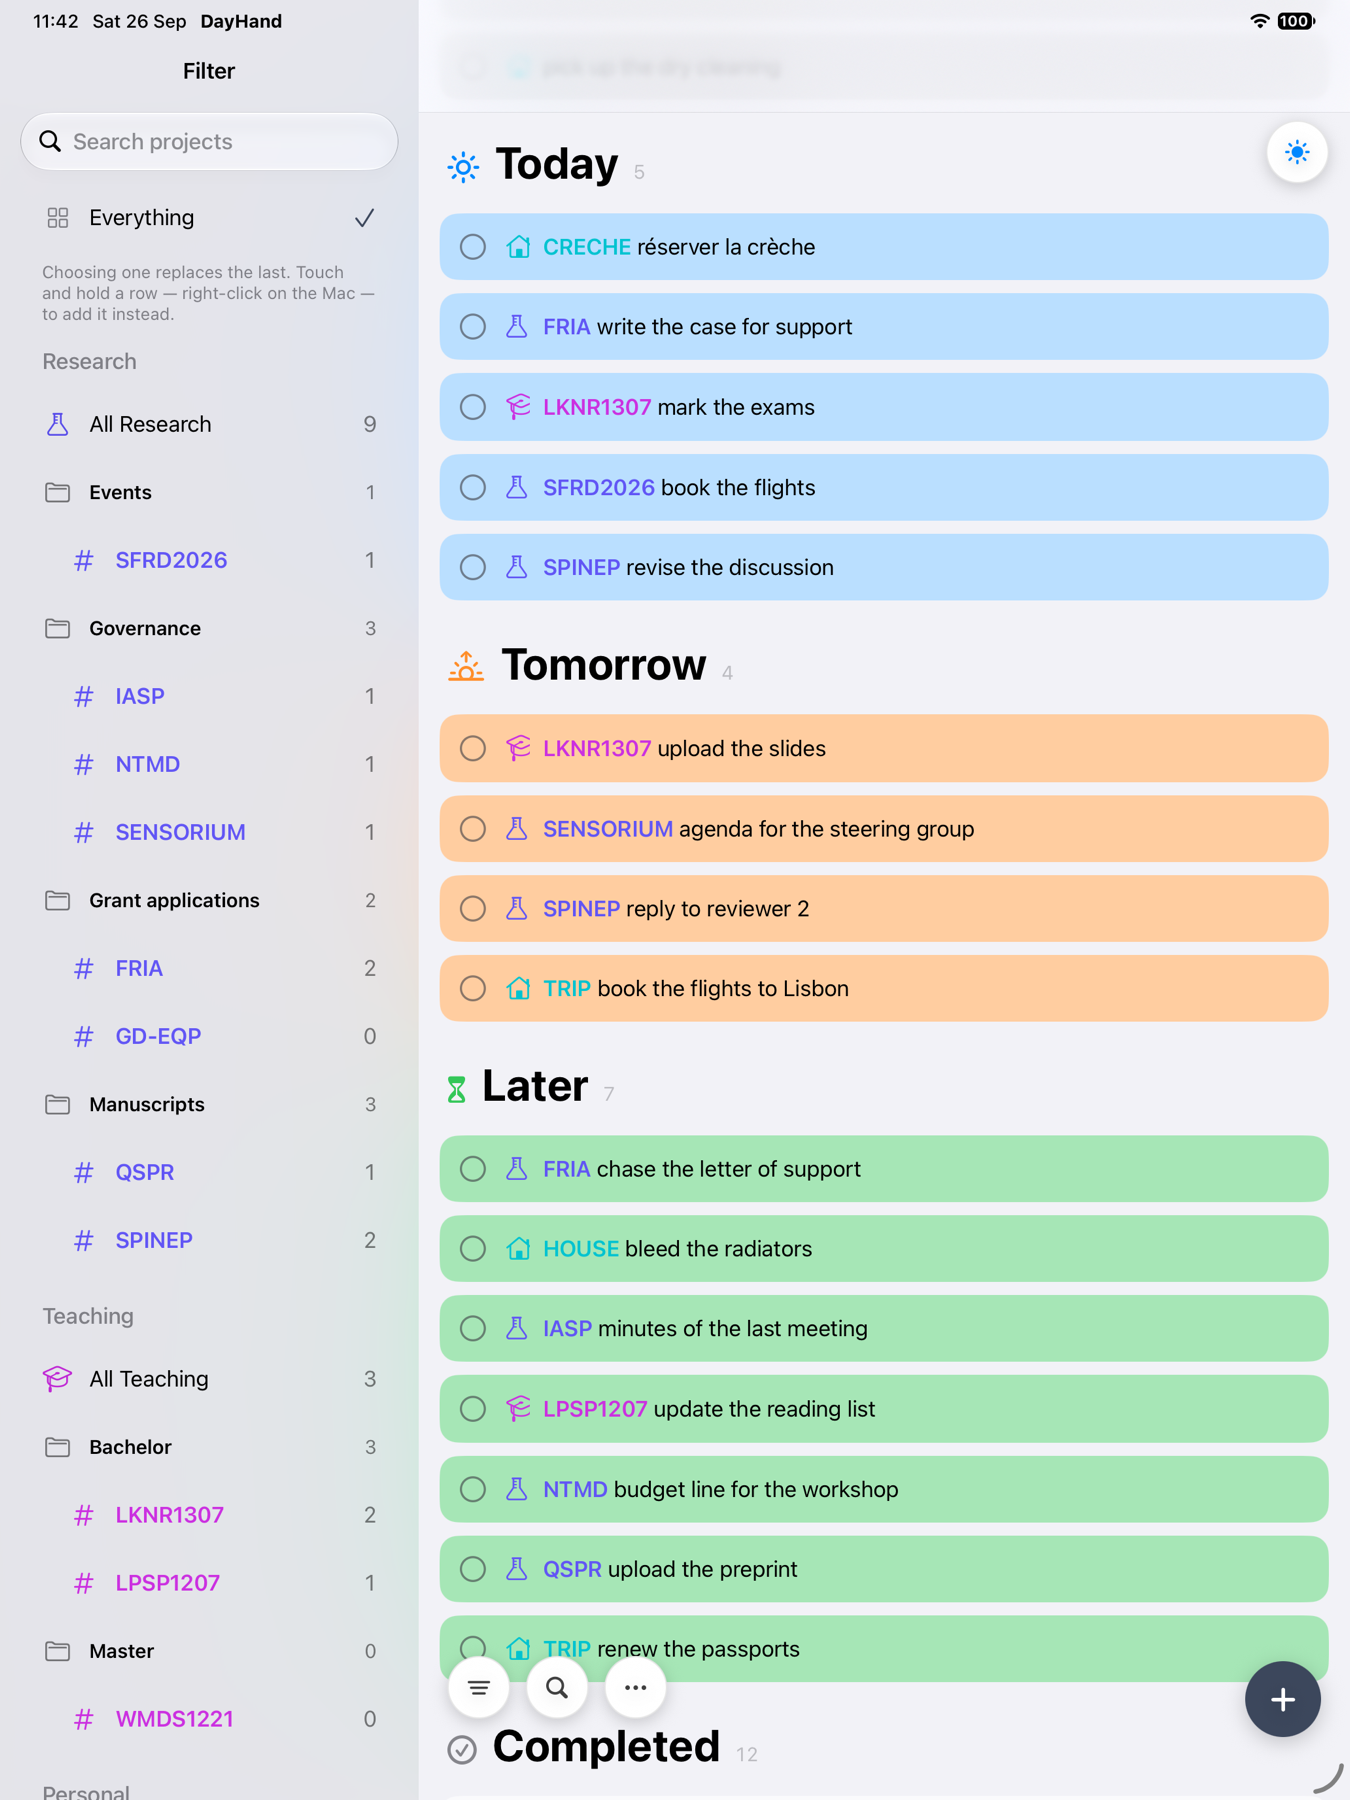
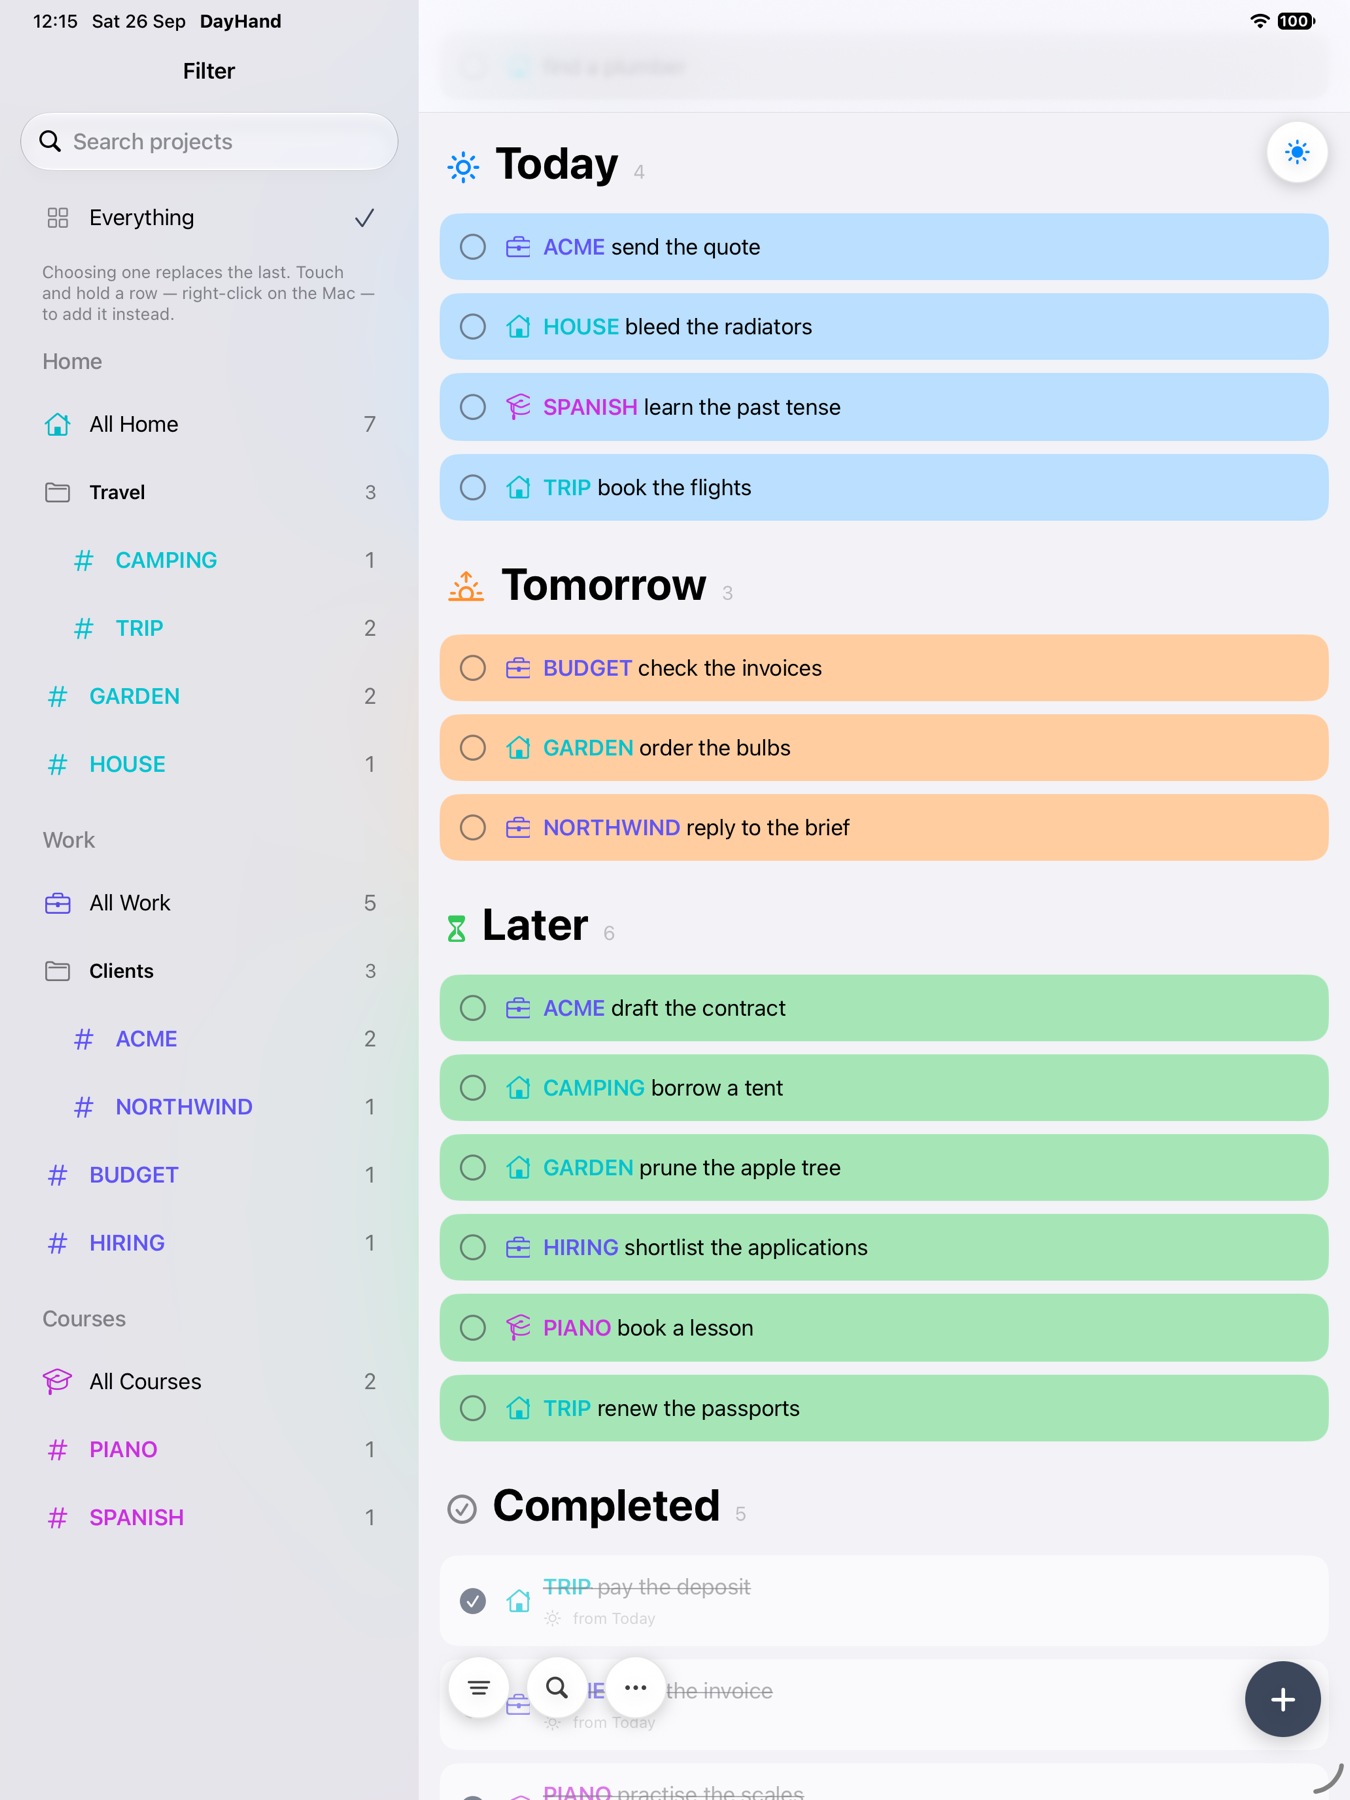
Make the site legible to someone who has never seen it
#FRIA meant something in one research office and nothing anywhere
else. The example tag is now #TRIP, which is also the project the app
itself ships with, so the page and a fresh install say the same thing.

The screenshots had the same problem, louder: SPINEP, LKNR1307,
WMDS1221, GD-EQP. They are retaken from demo data anyone can read —
ACME and NORTHWIND under Clients, TRIP and CAMPING under Travel,
GARDEN, HOUSE, BUDGET, HIRING, PIANO, SPANISH — filed under the app's
own three seeded categories rather than an academic's.

And the Download for Mac button led to an empty releases page, which is
worse than no button: there is no .dmg yet, and there cannot be one
until a Developer ID Application certificate exists. It is now a plain
statement rather than a link, with the route that does work today —
build it from source — and a comment marking the two lines to swap back
once the release is up. The README said the same untrue thing.

diff --git a/docs/index.html b/docs/index.html
@@ -80,6 +80,9 @@
   .btn small { font-weight: 400; font-size: 12.5px; opacity: .8; letter-spacing: 0; }
   .btn-primary { background: var(--today); color: #fff; }
   .btn-secondary { background: var(--panel); color: var(--ink); border-color: var(--line); box-shadow: var(--shadow); }
+  /* Not a link: it says where the Mac build is, without pretending to be one. */
+  .btn-quiet { background: transparent; color: var(--ink-soft); border-color: var(--line); cursor: default; }
+  .btn-quiet:hover { transform: none; filter: none; }
 
   /* ---------- ideas ---------- */
   section.wrap { padding: 62px 16px; }
@@ -150,9 +153,11 @@
     <a class="btn btn-primary" href="https://testflight.apple.com/join/37FbdQp6">
       Join the beta<small>iPhone &amp; iPad · TestFlight</small>
     </a>
-    <a class="btn btn-secondary" href="https://github.com/amouraux/DayHand/releases/latest">
-      Download for Mac<small>Latest release · .dmg</small>
-    </a>
+    <!-- When scripts/release-mac.sh has produced a notarised .dmg and it is
+         attached to a GitHub release, swap this span for:
+         <a class="btn btn-secondary" href="https://github.com/amouraux/DayHand/releases/latest">
+           Download for Mac<small>Latest release · .dmg</small></a>  -->
+    <span class="btn btn-quiet">Mac build on the way<small>Runs today from source</small></span>
   </div>
 </header>
 
@@ -172,7 +177,7 @@
     </div>
     <div class="idea i-later">
       <h3>Tags for the work you keep returning to</h3>
-      <p>Type <code>#FRIA</code> and the card carries that project: a coloured
+      <p>Type <code>#TRIP</code> and the card carries that project: a coloured
          prefix, a category filled in for you, and a name you can change on
          every card at once.</p>
     </div>
@@ -219,9 +224,10 @@
     <div class="card">
       <h3>Mac</h3>
       <p class="req">macOS 14 or later</p>
-      <p>A signed disk image. Download it, drag DayHand to your Applications
-         folder, and open it.</p>
-      <a class="btn btn-secondary" href="https://github.com/amouraux/DayHand/releases/latest">Download the .dmg</a>
+      <p>The same app, one target, no separate Mac version. A signed disk
+         image is being prepared; until it lands you can build it yourself —
+         open the project in Xcode, choose <b>My Mac</b>, and press ⌘R.</p>
+      <a class="btn btn-secondary" href="https://github.com/amouraux/DayHand">Get the source</a>
     </div>
   </div>
 </section>

diff --git a/README.md b/README.md
@@ -7,7 +7,9 @@ over on its own.
 ## Install it
 
 - **iPhone and iPad** — [join the TestFlight beta](https://testflight.apple.com/join/37FbdQp6), iOS 17 or later.
-- **Mac** — [download the latest `.dmg`](https://github.com/amouraux/DayHand/releases/latest), macOS 14 or later.
+- **Mac** — macOS 14 or later. A signed `.dmg` is not published yet; build it
+  with `scripts/release-mac.sh`, or open the project in Xcode, choose **My
+  Mac** and press ⌘R.
 
 Both, with screenshots, are on the site: **<https://amouraux.github.io/DayHand/>**
 (served from `docs/`). The Mac disk image is built by `scripts/release-mac.sh`,
